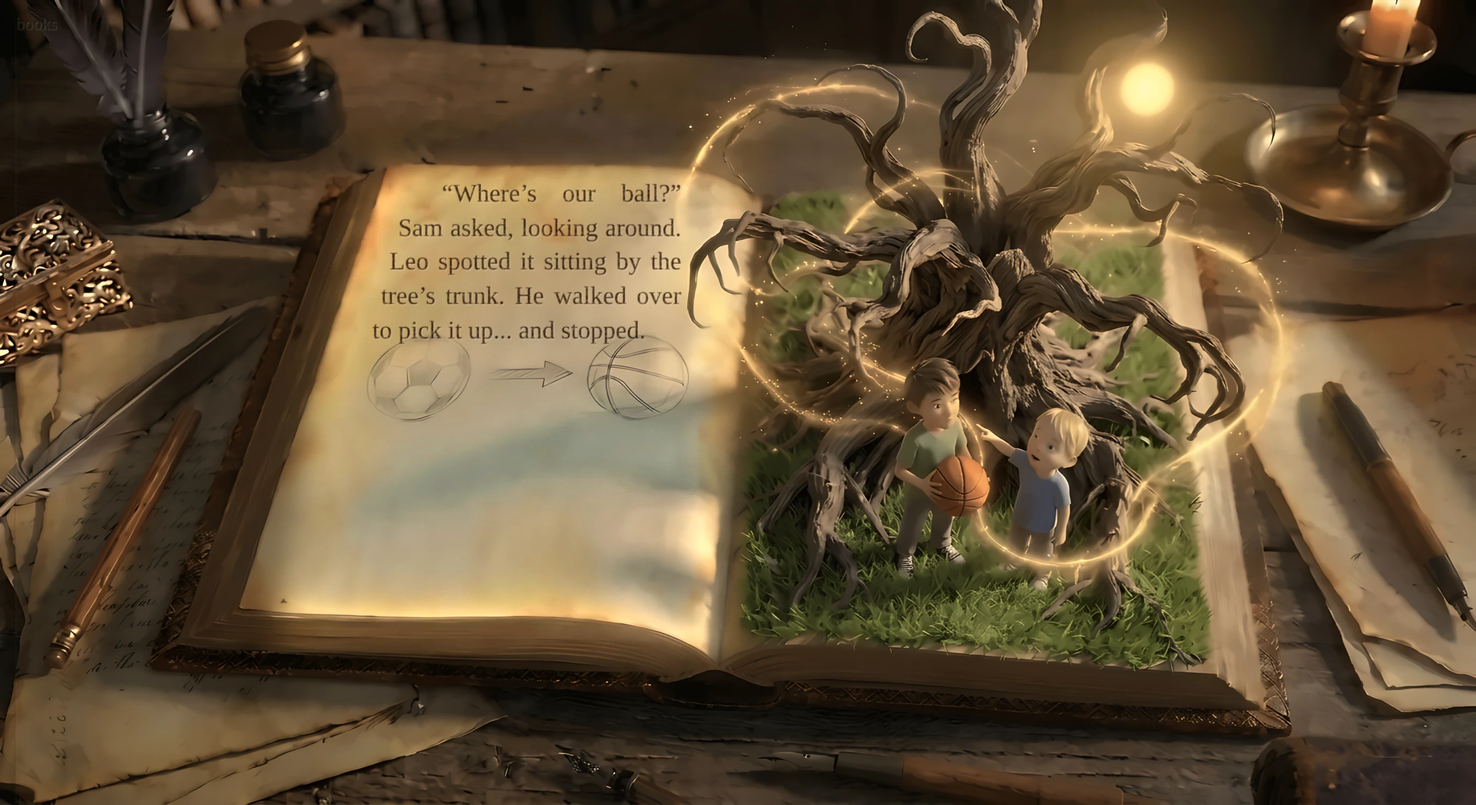
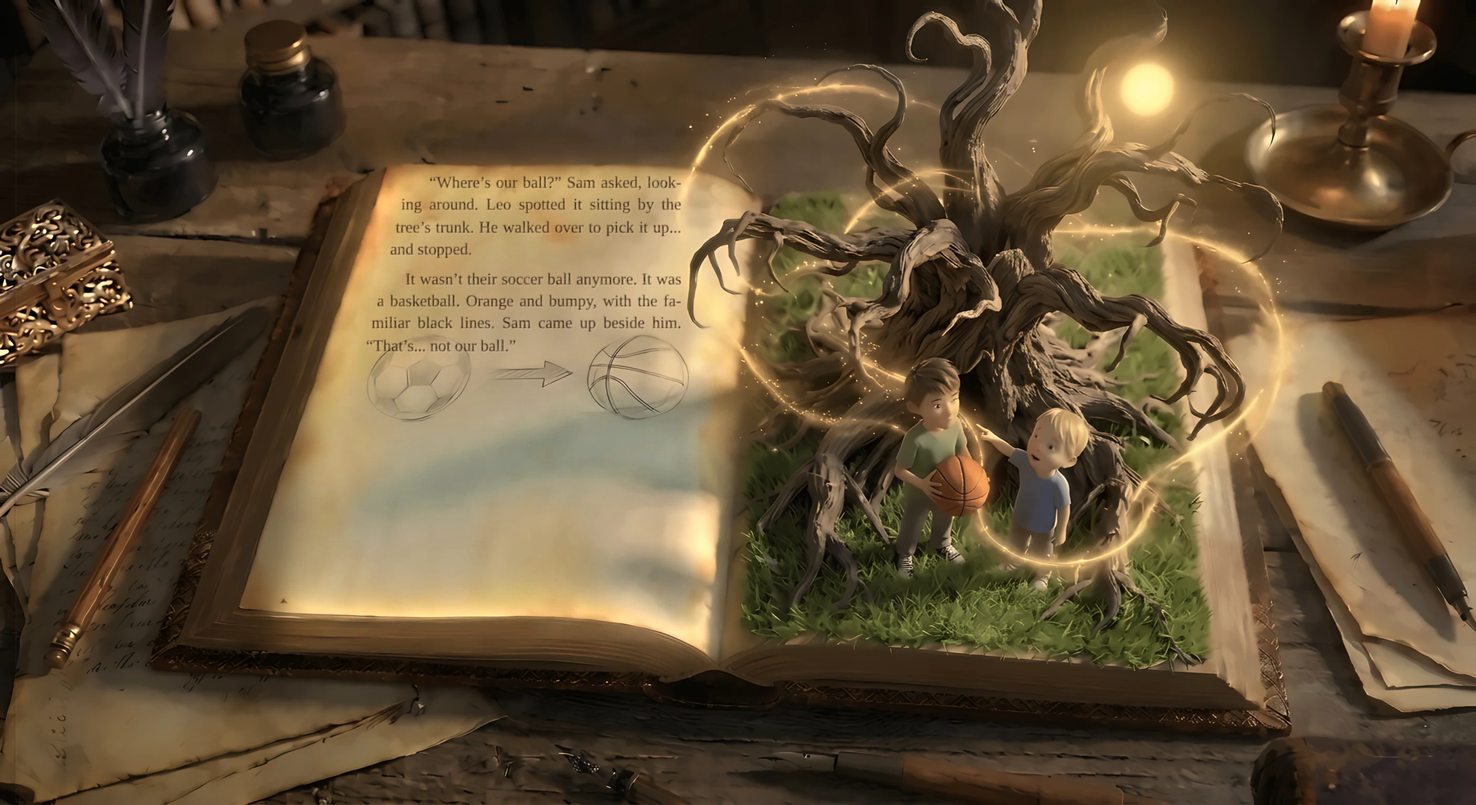
Merge pages 27+28 and 29+30
Claude-Session: https://claude.ai/code/session_01BFtifSTdmWYaAK88ECs5PE

Changed region(s): [[0.25, 0.2188, 0.4688, 0.4375]]

diff --git a/books/upside-down-world/story.js b/books/upside-down-world/story.js
@@ -28,10 +28,8 @@ window.STORY={"title":"The Upside-Down World","author":"M. A. Mafodh","pages":[
 {"img":"p09m","video":"p09mv","box":[374,172,636,596],"parts":["That was it. Leo’s senses came back to him. He grabbed Sam’s hand. \"We have to go. Now!\"\n\"But the whale!\" Sam cried, trying to pull back. \"NOW, Sam!\" Leo yanked him toward the glowing tunnel they had come from.\nThe magic of the place was suddenly scary, too big and too strange."],"book":true},
 {"img":"p10","sprite":"p12k","wind":-1.3,"swirl":[1090,85,0.004],"dust":true,"box":[374,172,636,596],"parts":["They scrambled back through the tunnel, stumbling over each other, and burst out from under the oak tree, landing in a heap on the familiar grass of the park."],"book":true},
 {"img":"p10_2","sprite":"p12k","wind":-1.3,"swirl":[1090,85,0.004],"dust":true,"box":[374,172,636,596],"parts":["The sun was normal yellow again. The air was warm and smelled like cut grass. They were back. Leo panted, his heart thumping like a drum. Sam sat up, blinking in the bright light."],"book":true},
-{"img":"p11","sprite":"p13k","wind":-1.3,"swirl":[1093,85,0.004],"dust":true,"box":[374,172,636,362],"parts":["\"Where's our ball?\" Sam asked, looking around. Leo spotted it sitting by the tree's trunk. He walked over to pick it up... and stopped."],"book":true},
-{"img":"p11_2","sprite":"p13k","wind":-1.3,"swirl":[1093,85,0.004],"dust":true,"box":[374,172,636,362],"parts":["It wasn't their soccer ball anymore. It was a basketball. Orange and bumpy, with the familiar black lines. Sam came up beside him. \"That's... not our ball.\""],"book":true},
-{"img":"p12","sprite":"p14k","wind":-1.3,"swirl":[1093,85,0.004],"dust":true,"box":[374,172,636,362],"parts":["Leo looked from the basketball in his hand to the dark hole under the tree. He started to laugh. It was a nervous, shaky laugh. Sam stared at the ball, then at Leo, and then he started giggling too."],"book":true},
-{"img":"p12_2","sprite":"p14k","wind":-1.3,"swirl":[1093,85,0.004],"dust":true,"box":[374,172,636,362],"parts":["Soon, they were both laughing so hard they could barely stand, a mix of amazement, fear, and pure confusion bubbling out of them."],"book":true},
+{"img":"p11","sprite":"p13k","wind":-1.3,"swirl":[1093,85,0.004],"dust":true,"box":[374,168,636,348],"parts":["\"Where's our ball?\" Sam asked, looking around. Leo spotted it sitting by the tree's trunk. He walked over to pick it up... and stopped.\nIt wasn't their soccer ball anymore. It was a basketball. Orange and bumpy, with the familiar black lines. Sam came up beside him. \"That's... not our ball.\""],"book":true},
+{"img":"p12","sprite":"p14k","wind":-1.3,"swirl":[1093,85,0.004],"dust":true,"box":[374,168,636,348],"parts":["Leo looked from the basketball in his hand to the dark hole under the tree. He started to laugh. It was a nervous, shaky laugh. Sam stared at the ball, then at Leo, and then he started giggling too.\nSoon, they were both laughing so hard they could barely stand, a mix of amazement, fear, and pure confusion bubbling out of them."],"book":true},
 {"img":"p15","sprite":"p15k","dust":true,"book":true,"box":[350,195,578,545],"parts":["Back at home their dog, Roma, a scruffy Husky, barked and wagged his tail as they opened the front door. \"We're home!\" their mom called from the kitchen."]},
 {"img":"p16","sprite":"p16k","dust":true,"book":true,"box":[374,170,706,616],"parts":["Dinner was spaghetti and meatballs. Sam swirled his noodles, keeping his head down.\n\"So, how was the park, boys?\" their dad asked, twirling pasta onto his fork."]},
 {"img":"p16b","sprite":"p16k","dust":true,"book":true,"box":[374,170,706,616],"parts":["\"It was good,\" Leo said quickly. \"We lost the soccer ball, but... we found this basketball!\" He held it up with a forced smile.\n\"Wow, what a lucky trade!\" their mom said."]},

diff --git a/books/upside-down-world/index.html b/books/upside-down-world/index.html
@@ -131,7 +131,7 @@ body.narrow #bar{gap:6px;padding-top:8px}body.narrow #bar button{padding:0 12px;
   <button id="auto" aria-pressed="true" title="Turn the pages by itself">Auto turn</button>
   <button id="next" aria-label="Next page">&#8594;</button>
 </div>
-<script src="story.js?v=130"></script>
+<script src="story.js?v=131"></script>
 <script src="sprite.js?v=42"></script>
 <script src="lyrics.js?v=2"></script><script src="lyrics2.js?v=1"></script>
 <script src="voice.js?v=20"></script>
@@ -217,7 +217,7 @@ const vids={};let blackT=null;
 function black(){if(!blackT&&gl){blackT=gl.createTexture();gl.bindTexture(gl.TEXTURE_2D,blackT);gl.texImage2D(gl.TEXTURE_2D,0,gl.RGB,1,1,0,gl.RGB,gl.UNSIGNED_BYTE,new Uint8Array([0,0,0]));}return {ready:true,t:blackT};}
 function loadVid(name){if(vids[name])return vids[name];const v=document.createElement('video');v.muted=true;v.defaultMuted=true;v.loop=true;v.playsInline=true;v.setAttribute('playsinline','');v.setAttribute('muted','');v.preload='auto';v.crossOrigin='anonymous';v.src='img/'+name+'.mp4?v=81';
   const o={v,t:null,ok:false};v.addEventListener('playing',()=>{o.ok=true;});vids[name]=o;return o;}
-function pageTex(p){if(p.video)return {c:loadTex('img/'+p.img+'.webp?v=91'),d:p.relief?loadTex('img/'+p.img+'-d.webp'):black(),vid:loadVid(p.video)};return {c:loadTex('img/'+p.img+'.webp?v=91'),d:loadTex('img/'+p.img+'-d.webp')};}
+function pageTex(p){if(p.video)return {c:loadTex('img/'+p.img+'.webp?v=93'),d:p.relief?loadTex('img/'+p.img+'-d.webp'):black(),vid:loadVid(p.video)};return {c:loadTex('img/'+p.img+'.webp?v=93'),d:loadTex('img/'+p.img+'-d.webp')};}
 const ORIGIN={kb:[.72,.55],shade:[.80,.74]};
 function whv(p){return p.whale?[p.whale[0]/1408,p.whale[1]/768,p.whale[2]/1408,p.whale[3]/768]:[0,0,0,0];}
 function swv(p){return p.swirl?[p.swirl[0]/1408,p.swirl[1]/768,p.swirl[2],p.swirl[3]||0]:[0,0,0,0];}
@@ -242,7 +242,7 @@ function makeLayer(i){
   if(layers[i])return layers[i];
   const p=P[i],L=document.createElement('div');L.className='layer';
   const kb=document.createElement('div');kb.className='kb';kb.style.transformOrigin=(p.fx==='shade'?'80% 74%':'72% 55%');
-  if(!gl){let im;if(p.video){im=loadVid(p.video).v;im.poster='img/'+p.img+'.webp';}else{im=new Image();im.src='img/'+p.img+'.webp?v=91';im.alt='';}im.className='fb';kb.appendChild(im);}
+  if(!gl){let im;if(p.video){im=loadVid(p.video).v;im.poster='img/'+p.img+'.webp';}else{im=new Image();im.src='img/'+p.img+'.webp?v=93';im.alt='';}im.className='fb';kb.appendChild(im);}
   if(p.fx==='shade'){const s=document.createElement('div');s.className='shade';kb.appendChild(s);L._shade=s;}
   if(p.song){const r=document.createElement('div');r.className='rings';r.style.cssText='left:'+(650/W*100)+'%;top:'+(55/H*100)+'%;width:'+(130/W*100)+'%;height:'+(130/H*100)+'%';r.innerHTML='<i></i><i></i><i></i><i></i>';kb.appendChild(r);L._rings=r;}
   const t=document.createElement('div');t.className='txt'+(p.cover?' cover':'')+(p.book?' bk':'')+(p.songcard?' sc':'')+(p.big?' big':'');let b=p.box;
